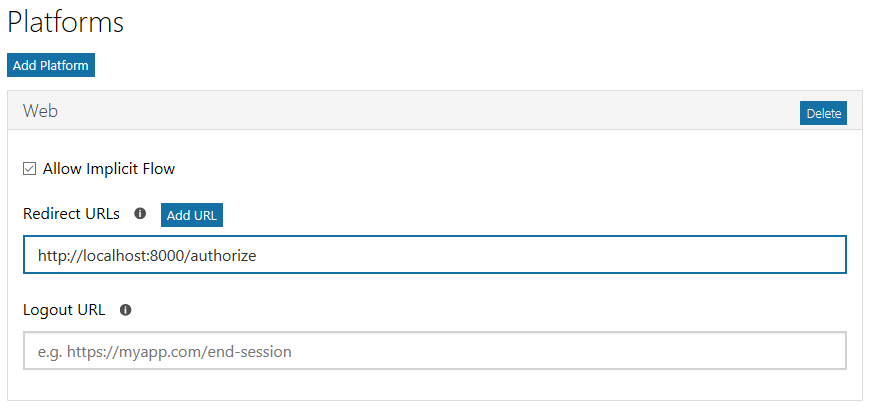
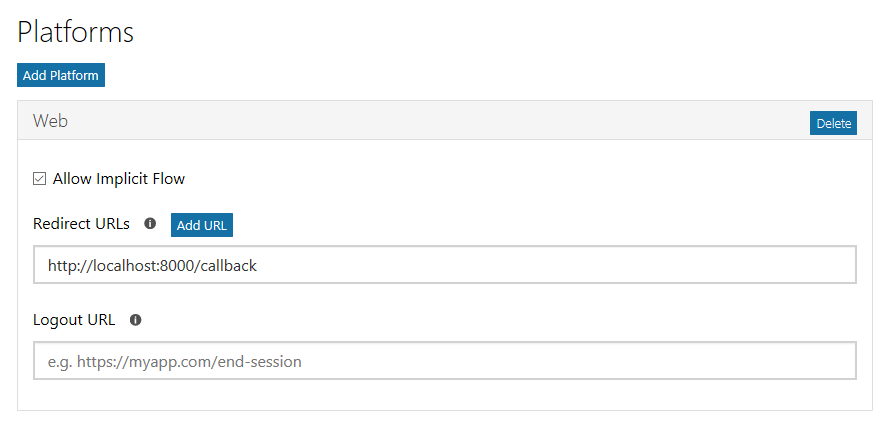
Slight adjustment to callback URL

diff --git a/Demos/02-arp-app/README.md b/Demos/02-arp-app/README.md
@@ -32,7 +32,7 @@ In this demo, you will create a new Azure AD web application registration using 
 
         ![Screenshot creating a platform for the app](/Images/arp-create-app-04.png)
 
-    1. In the **Web** platform box, enter the URL `http://localhost:8000/authorize` for the **Redirect URLs**.
+    1. In the **Web** platform box, enter the URL `http://localhost:8000/callback` for the **Redirect URLs**.
 
         ![Screenshot of the newly added Web platform for the application](/Images/arp-create-app-05.png)
 
